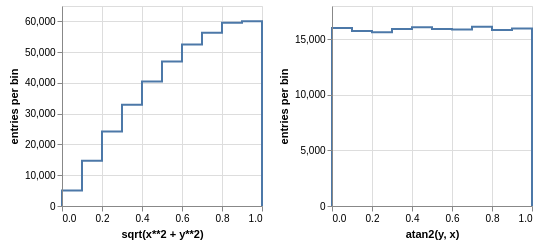
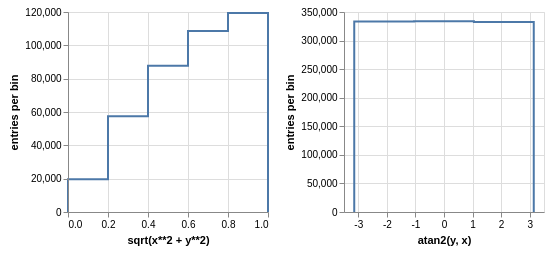
README [skip ci]

diff --git a/README.rst b/README.rst
@@ -122,13 +122,14 @@ This example was deliberately simple. We can extend the binning to two dimension
 
 .. code-block:: python
 
-    >>> hist = Hist(bin("sqrt(x**2 + y**2)", 10, 0, 1), bin("atan2(y, x)", 10, 0, 1))
+    >>> import math
+    >>> hist = Hist(bin("sqrt(x**2 + y**2)", 5, 0, 1), bin("atan2(y, x)", 3, -math.pi, math.pi))
     >>> hist.fill(x=numpy.random.normal(0, 1, 1000000), y=numpy.random.normal(0, 1, 1000000))
     >>> beside(hist.step("sqrt(y**2 + x**2)"), hist.step("atan2(y,x)")).to(canvas)
 
 .. image:: docs/source/intro-2.png
 
-Note that I defined the first axis as ``sqrt(x**2 + y**2)`` and then accessed it as ``sqrt(y**2 + x**2)`` (x and y are reversed). The text between quotation marks is not 
+Note that I defined the first axis as ``sqrt(x**2 + y**2)`` and then accessed it as ``sqrt(y**2 + x**2)`` (x and y are reversed). The text between quotation marks is not a label that must be matched exactly, it's a symbolic expression that is matched algebraically. They could even be entered as Python functions:
 
 .. code-block:: python
 
@@ -136,6 +137,69 @@ Note that I defined the first axis as ``sqrt(x**2 + y**2)`` and then accessed it
     >>> r = lambda x, y: math.sqrt(x**2 + y**2)
     >>> phi = lambda y, x: math.atan2(y, x)
     >>> beside(hist.step(r), hist.step(phi)).to(canvas)
+
+The data contained in ``hist`` is two-dimensional, which you can see by printing
+
+.. code-block:: python
+
+    >>> hist.pandas()
+
+.. code-block::
+
+                                                        count()  err(count())
+    sqrt(x**2 + y**2) atan2(y, x)                                            
+    [-inf, 0.0)       [-inf, -3.14159265359)                0.0      0.000000
+                      [-3.14159265359, -1.0471975512)       0.0      0.000000
+                      [-1.0471975512, 1.0471975512)         0.0      0.000000
+                      [1.0471975512, 3.14159265359)         0.0      0.000000
+                      [3.14159265359, inf)                  0.0      0.000000
+                      {NaN}                                 0.0      0.000000
+    [0.0, 0.2)        [-inf, -3.14159265359)                0.0      0.000000
+                      [-3.14159265359, -1.0471975512)    6704.0     81.877958
+                      [-1.0471975512, 1.0471975512)      6595.0     81.209605
+                      [1.0471975512, 3.14159265359)      6409.0     80.056230
+                      [3.14159265359, inf)                  0.0      0.000000
+                      {NaN}                                 0.0      0.000000
+    [0.2, 0.4)        [-inf, -3.14159265359)                0.0      0.000000
+                      [-3.14159265359, -1.0471975512)   19008.0    137.869504
+                      [-1.0471975512, 1.0471975512)     19312.0    138.967622
+                      [1.0471975512, 3.14159265359)     19137.0    138.336546
+                      [3.14159265359, inf)                  0.0      0.000000
+                      {NaN}                                 0.0      0.000000
+    [0.4, 0.6)        [-inf, -3.14159265359)                0.0      0.000000
+                      [-3.14159265359, -1.0471975512)   29266.0    171.073084
+                      [-1.0471975512, 1.0471975512)     29163.0    170.771778
+                      [1.0471975512, 3.14159265359)     29293.0    171.151979
+                      [3.14159265359, inf)                  0.0      0.000000
+                      {NaN}                                 0.0      0.000000
+    [0.6, 0.8)        [-inf, -3.14159265359)                0.0      0.000000
+                      [-3.14159265359, -1.0471975512)   36289.0    190.496719
+                      [-1.0471975512, 1.0471975512)     36227.0    190.333917
+                      [1.0471975512, 3.14159265359)     36145.0    190.118384
+                      [3.14159265359, inf)                  0.0      0.000000
+                      {NaN}                                 0.0      0.000000
+    [0.8, 1.0)        [-inf, -3.14159265359)                0.0      0.000000
+                      [-3.14159265359, -1.0471975512)   39931.0    199.827426
+                      [-1.0471975512, 1.0471975512)     39769.0    199.421664
+                      [1.0471975512, 3.14159265359)     39752.0    199.379036
+                      [3.14159265359, inf)                  0.0      0.000000
+                      {NaN}                                 0.0      0.000000
+    [1.0, inf)        [-inf, -3.14159265359)                0.0      0.000000
+                      [-3.14159265359, -1.0471975512)  202393.0    449.881095
+                      [-1.0471975512, 1.0471975512)    202686.0    450.206619
+                      [1.0471975512, 3.14159265359)    201921.0    449.356206
+                      [3.14159265359, inf)                  0.0      0.000000
+                      {NaN}                                 0.0      0.000000
+    {NaN}             [-inf, -3.14159265359)                0.0      0.000000
+                      [-3.14159265359, -1.0471975512)       0.0      0.000000
+                      [-1.0471975512, 1.0471975512)         0.0      0.000000
+                      [1.0471975512, 3.14159265359)         0.0      0.000000
+                      [3.14159265359, inf)                  0.0      0.000000
+                      {NaN}                                 0.0      0.000000
+
+
+
+
 
 .. inclusion-marker-4-do-not-remove
 
